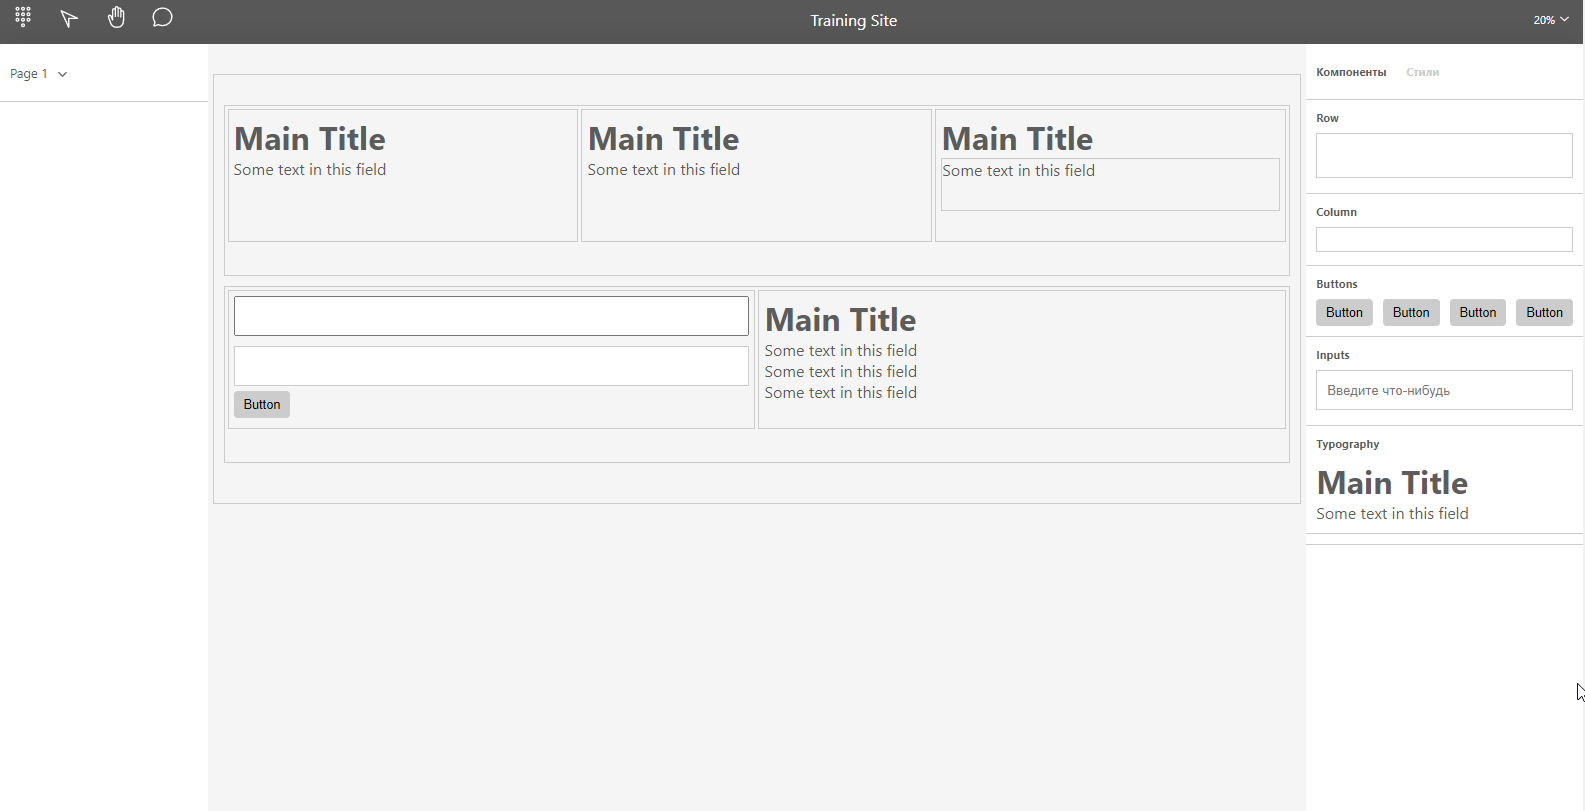
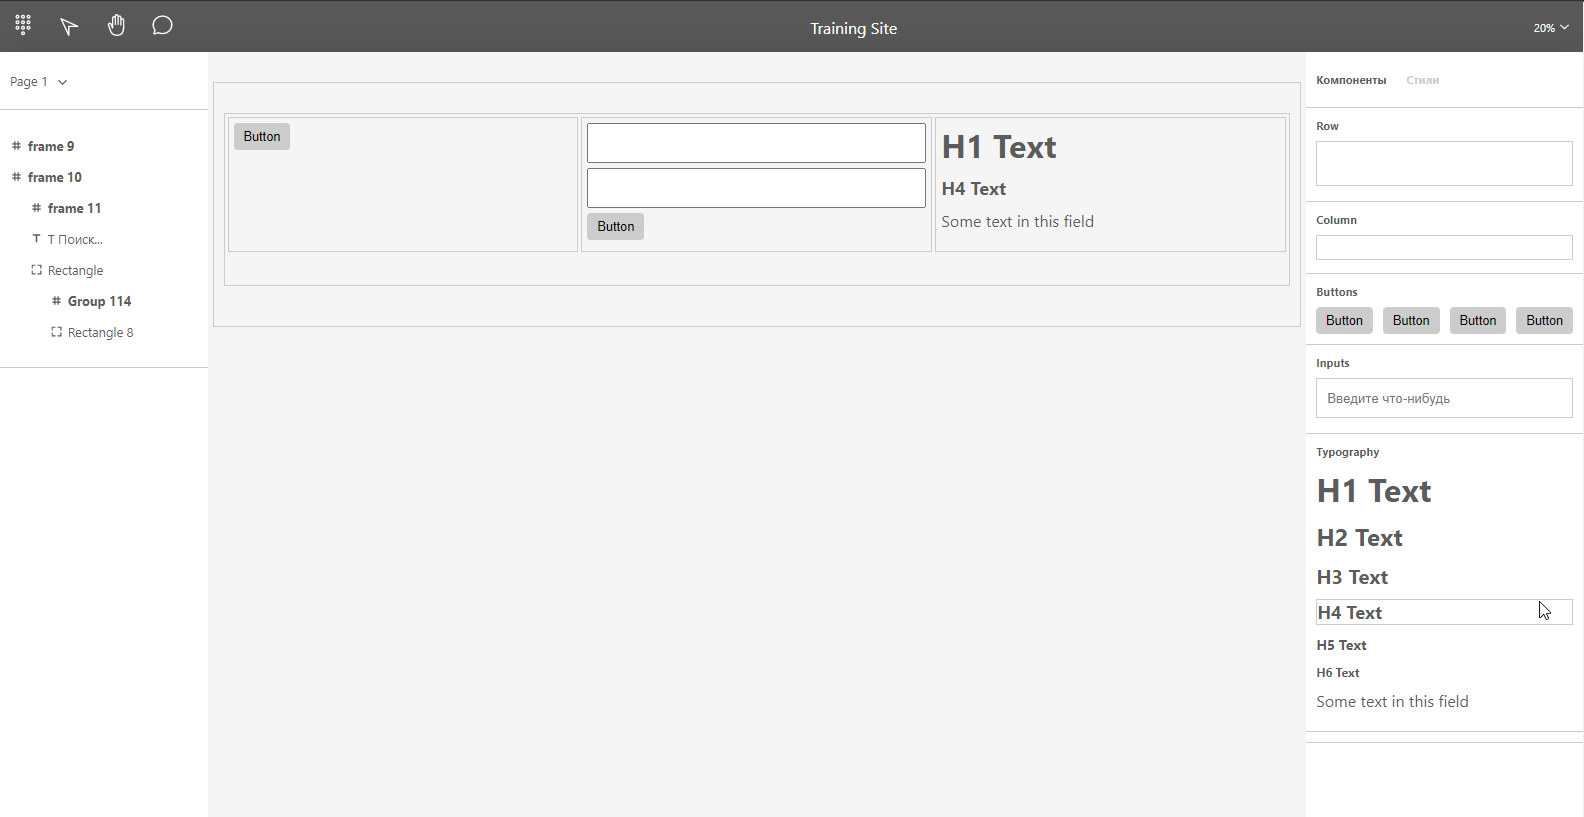
add picture

diff --git a/client/src/components/LeeftBarPage/index.tsx b/client/src/components/LeeftBarPage/index.tsx
@@ -22,7 +22,7 @@ export const renderIcon = (classes: string) => {
 };
 
 const LeftBarPage: FC = () => {
-    const leftMenu = [
+    const [leftMenu, setLeftMenu] = useState([
         {
             id: 1,
             title: "frame 9",
@@ -64,7 +64,7 @@ const LeftBarPage: FC = () => {
                 },
             ],
         },
-    ];
+    ]);
 
     const renderMenu = (arr: any) => {
         return arr.map((item: any) => {
@@ -101,18 +101,6 @@ const LeftBarPage: FC = () => {
             <Block>
                 <div className="leftbar-page">
                     <ul className="leftbar-list">{renderMenu(leftMenu)}</ul>
-                    {/* <ul className="leftbar-list">
-                        <li className="list-item"># Frame 9</li>
-                        <li className="list-item"># Frame 10</li>
-                        <li className="list-item">
-                            # Frame 15
-                            <ul className="leftbar-list list-2">
-                                <li className="list-item">T Поиск...</li>
-                                <li className="list-item">Rectangle</li>
-                                <li className="list-item">Group 114</li>
-                            </ul>
-                        </li>
-                    </ul> */}
                 </div>
             </Block>
         </>
